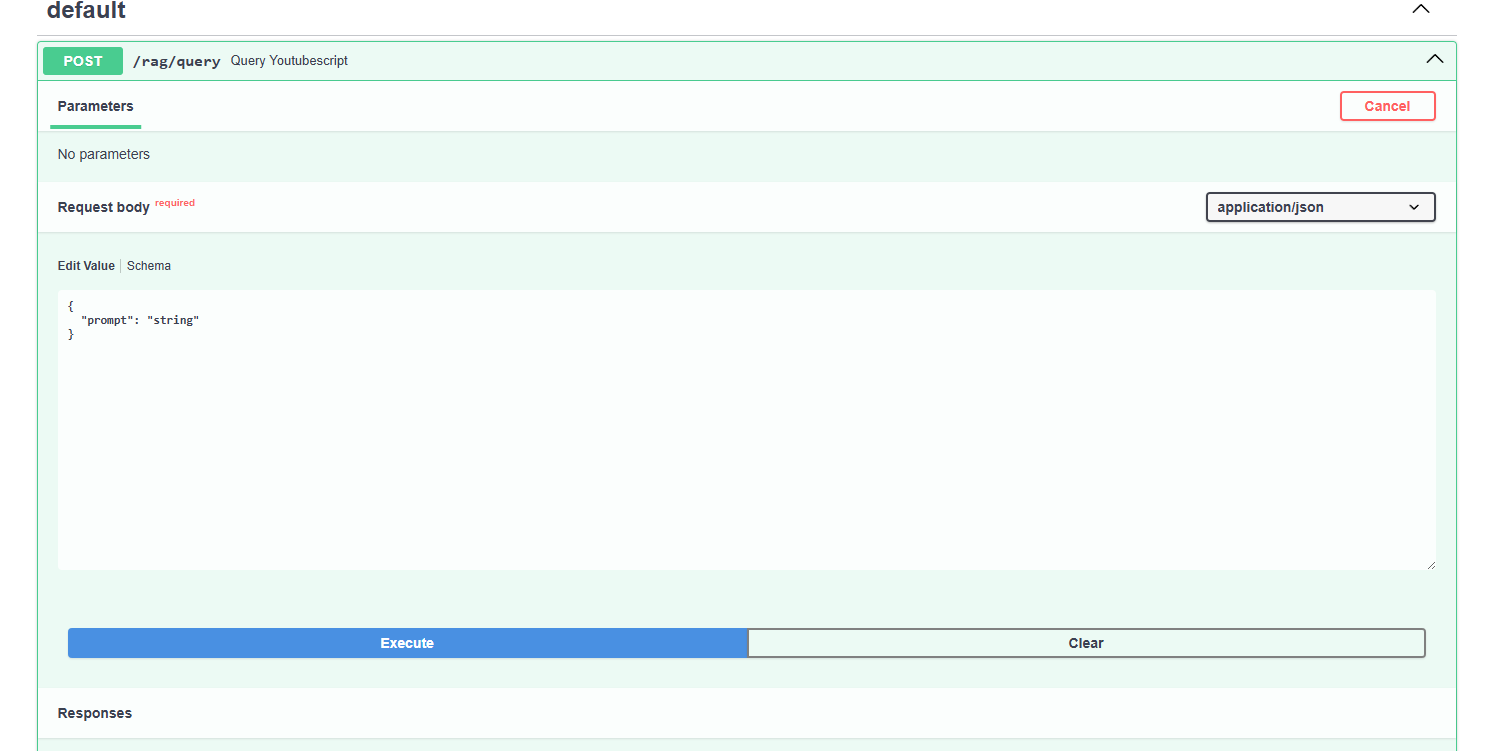
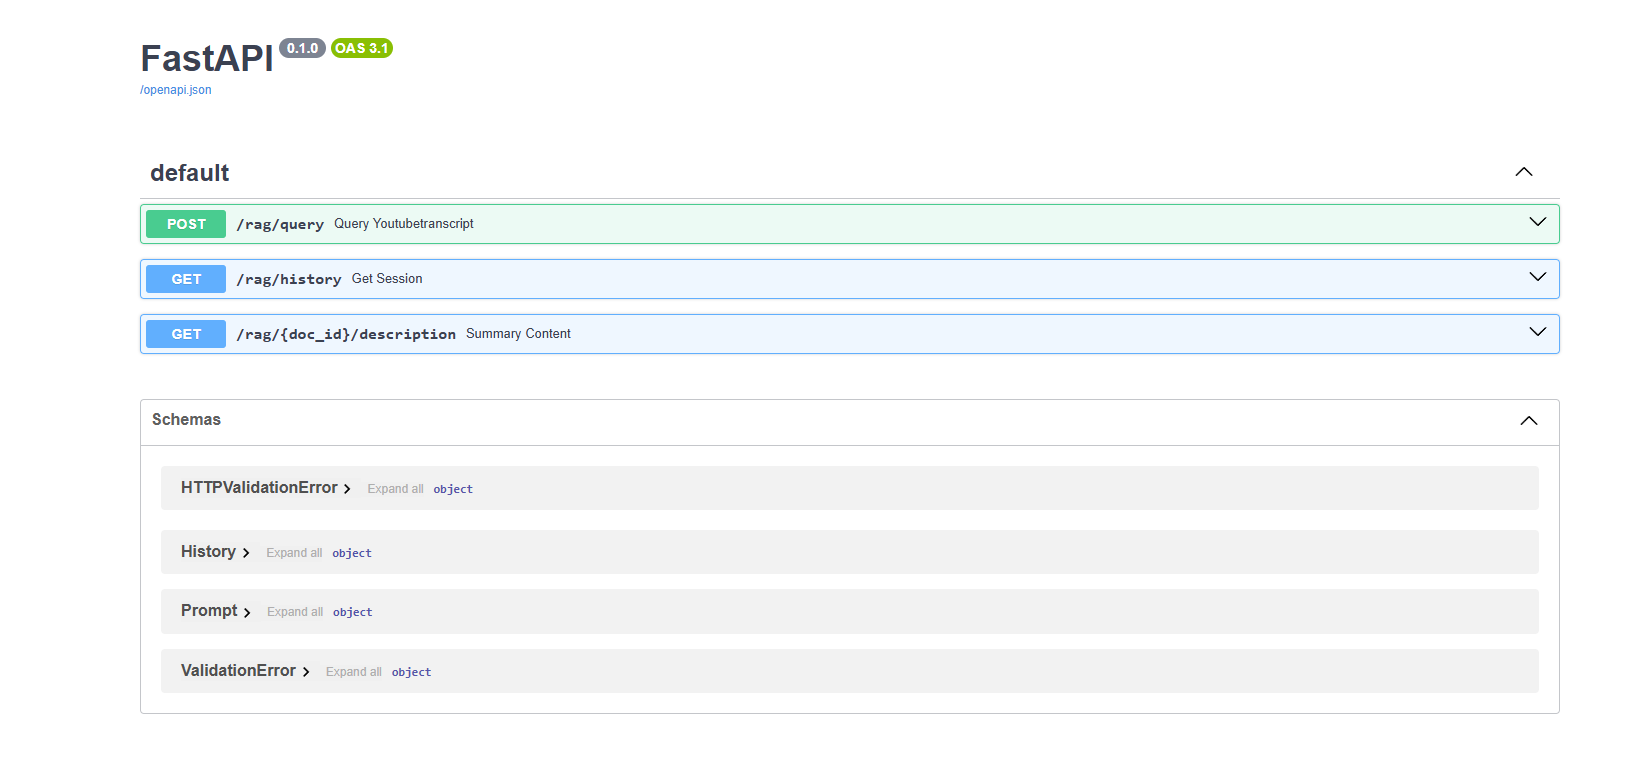
more endpoint and some changing in README

diff --git a/api.py b/api.py
@@ -1,39 +1,63 @@
-from fastapi import FastAPI
-from backend.data_models import Prompt
+from fastapi import FastAPI, HTTPException
+from backend.data_models import Prompt, YoutubeDescription
 from backend.rag import rag_agent
+from backend.ingestion import open_vector_database
+from typing import List
 
 app = FastAPI()
 
+def get_transcript_content(doc_id):
+    table = open_vector_database()
+    df = table.to_pandas()
+        
+    records: List[dict] = df.to_dict(orient= "records")
+
+    for r in records:
+        if r["doc_id"] == doc_id:
+            r.pop("embedding", None)
+            return r["content"]
+
+    raise HTTPException(status_code=404, detail= "Transcript do not exists")
+
 last_result = None
 
-session = []
+session: list[dict] = []
 
 @app.post("/rag/query")
-async def query_youtubescript(query:Prompt):
+async def query_youtubetranscript(query: Prompt):
     global last_result
-    
+
     messages_history = last_result.all_messages() if last_result else None
-    
-    result =await rag_agent.run(query.prompt, message_history= messages_history)
+
+    result = await rag_agent.run(query.prompt, message_history=messages_history)
 
     last_result = result
-    return {"answer": result.output.answer}
-    
 
-@app.post("/rag/history")
-async def create_history(query:Prompt):
-    
-    session.append(query.history)
-    
+    session.append({"role": "user", "content": query.prompt})
+    session.append({"role": "assistant", "content": result.output.answer})
+
+    return {"answer": result.output.answer}
+
+
+@app.get("/rag/history")
+async def get_session() -> list[dict]:
+
     return session
 
-# @app.get("rag/history/{id}")
-# async def get_session(session_id: int) -> Prompt:
-#     if session_id < len(session):
-#         return session[session_id]
-#     else:
-#         raise HTTPException(status_code= 404, detail= f"Item {session_id} not found")
-        
-    
-    
-    
+
+
+@app.get("/rag/{doc_id}/description")
+async def summary_content(doc_id: str):
+  transcript_text = get_transcript_content(doc_id)
+  
+  prompt = (f"Write a summary for the {transcript_text}.",
+            "Keep it short and interesting, 2-4 sentences.",
+            )
+  
+  result = await rag_agent.run(prompt)
+  
+  return YoutubeDescription(
+      doc_id= doc_id,
+      description= result.output.answer
+      )
+  

diff --git a/frontend/app.py b/frontend/app.py
@@ -5,12 +5,10 @@ from dotenv import load_dotenv
 
 load_dotenv()
 
-# url = "http://127.0.0.1:8000/rag/query"
+url = "http://127.0.0.1:8000/rag/query"
 
-# This use when frontend are deployed
-
-
-BACKEND_URL = os.getenv("BACKEND_URL")
+# This: use when frontend are deployed
+# BACKEND_URL = os.getenv("BACKEND_URL")
 
 def init_message_state():
     
@@ -31,7 +29,7 @@ def handle_user_messager():
             
         st.session_state.messages.append({"role": "user", "content": prompt})
         
-        response = requests.post(BACKEND_URL, json={"prompt": prompt,
+        response = requests.post(url, json={"prompt": prompt,
                                 "history": st.session_state.messages})
         
         data = response.json()
@@ -45,12 +43,13 @@ def handle_user_messager():
 
 
 def layout():
+    
     st.markdown("# Data Engineer chatbot")
     st.markdown("Ask your question.")
     
     display_chat_message()
     handle_user_messager()
-
+        
 if __name__=="__main__":
     
     init_message_state()

diff --git a/backend/data_models.py b/backend/data_models.py
@@ -1,11 +1,10 @@
 from pydantic import BaseModel, Field
+from typing import List, Optional
 from lancedb.embeddings import get_registry
 from lancedb.pydantic import LanceModel, Vector
 from dotenv import load_dotenv
 
 load_dotenv()
-
-
 
 embedding_model = get_registry().get("gemini-text").create(name= "gemini-embedding-001")
 
@@ -31,4 +30,11 @@ class History(BaseModel):
 
 class Prompt(BaseModel):
     prompt: str = Field(description="prompt from user")
+    history: Optional[List[History]]
     
+
+class YoutubeDescription(BaseModel):
+    doc_id: str = Field(description="Id for the video, is the same as filepath")
+    description: str = Field(description= "Short summaries for the video")
+    
+

diff --git a/backend/ingestion.py b/backend/ingestion.py
@@ -1,6 +1,6 @@
 import lancedb 
-from constants import DATA_PATH, VECTOR_DB_PATH
-from data_models import TranScript
+from .constants import DATA_PATH, VECTOR_DB_PATH
+from .data_models import TranScript
 from pathlib import Path
 import time 
 
@@ -37,6 +37,15 @@ def ingested_txt_to_vector_db(table_name):
         print(table_name.to_pandas()["filename"])
         time.sleep(20)
 
+    
+    
+def open_vector_database():
+    
+    vector_db = lancedb.connect(uri=VECTOR_DB_PATH)
+    
+    table = vector_db.open_table("transcript")
+    
+    return table
     
     
 if __name__=="__main__":

diff --git a/backend/rag.py b/backend/rag.py
@@ -7,7 +7,7 @@ from .constants import VECTOR_DB_PATH
 vector_db = lancedb.connect(uri=VECTOR_DB_PATH)
 
 rag_agent = Agent(
-    model="google-gla:gemini-2.5-flash",
+    model="google-gla:gemini-2.0-flash",
     retries=3,
     system_prompt=(
         "You are an expert Data Engineering.",

diff --git a/README.md b/README.md
@@ -1,26 +1,9 @@
 # Chatbot for Data Engineer
 > This project is a chatbot design to answer question based on transcript from teachers YOUTUBE lectures in Data Engineer education program.
 
-## Purpose of this project
-- Using Pydantic to understand data validation and parsing. 
-- Using FastAPI to build a web framework for creating API:s in Python.
-- Using PydanticAI to build LLM-powered interaction and gain a basic understanding of how they work.
-- Using Lancedb for creating vector database and learning about embeddings.
-- Azure function apps is the bridge between backend and frontend.
-- Terraform to create infrastructer code in Azure.
-- Using Docker to build container image and push them to Azure.
-- Using Azure to deploy and host the application.
-
-## Features 
-- Get answer on the content for Data Engineer education program.
-- Create a chat session with the bot
-- Retrieve chat history for a session
-
-
 ## Source
 The transcript for this YouTube lecture are stored in this repository under the data directory. 
 You can browse them here: https://github.com/MarcusArdenstedt/Chatbot_de24/tree/main/data 
-
 
 ## Installation
 
@@ -51,9 +34,10 @@ You can browse them here: https://github.com/MarcusArdenstedt/Chatbot_de24/tree/
    ```
 This will make it possible to build and distribute package in the project.
 
-# Step to execute the project
 
-## Create and ingest data to a vector database
+## How to use the code
+
+### Create and ingest data to a vector database
 
 - Create a constants file under backend. Here create path to data and knowledge_base: https://github.com/MarcusArdenstedt/Chatbot_de24/blob/main/backend/constants.py
   
@@ -61,14 +45,16 @@ This will make it possible to build and distribute package in the project.
   
 - Before ingest the text-file to knowledge_base you need to have embedding the text that ingest and defining table schema. An enbedding is a numeric vector tha capture the sematic meaning of the transcript and makes it possible for the agent to do vector search.
 
-<image src = "assets/embedding_defining.png">
+<image src = "assets/embedding_defining.png" width= 300>
+
 - Ingestion the text-file to a vector database. Here's exemple: https://github.com/MarcusArdenstedt/Chatbot_de24/blob/main/backend/ingestion.py 
 
-## Testing Fast API with Swagger UI
+### Testing Fast API with Swagger UI
 - Creating a RAG Agent with pydantic AI. Tool_plain decorator perform a vector search in lancedb for the user query and return top matching content to the agent.
 https://github.com/MarcusArdenstedt/Chatbot_de24/blob/main/backend/rag.py
   
-- In the api.py create a fast API endpoint to call to RAG-agent, code exemple: <image src = "assets/post_endpoint.png">
+- In the api.py create a fast API endpoint to call to RAG-agent, code exemple: <image src = "assets/post_endpoint.png" width=300>
+
 Initialize app with FastAPI(), then decorate it with GET-endpoint. async and await is just to make that computer dosen't need to wait for this function to be finish so the computer jumping back and forth until this is finish. Here you send in the prompt to RAG-agent and it will return the output. 
 
 - Testing in swagger
@@ -78,21 +64,21 @@ Initialize app with FastAPI(), then decorate it with GET-endpoint. async and awa
     uv run uvicorn api:app --reload
     ```
 
-http://127.0.0.1:8000/docs in browser url and this is what will:
-<image src = "assets/swagger_ui.png">
+http://127.0.0.1:8000/docs in browser url and this is what will show:
+<image src = "assets/swagger_ui.png" width=300>
 
 And string is the prompt.
 
-## Function apps
+### Function apps
 
 - Install [Azure Functions Core Tools](https://learn.microsoft.com/en-us/azure/azure-functions/functions-run-local?tabs=macos%2Cisolated-process%2Cnode-v4%2Cpython-v2%2Chttp-trigger%2Ccontainer-apps&pivots=programming-language-csharp) on your computer
 
 - In extension install Azure Functions
-  <image src = "assets/azure_function_extension.png">
+  <image src = "assets/azure_function_extension.png" width=300>
 
 - sign in with your azure subscription 
 - click on workspace and create a local project
-<image src = "assets/workspace.png">
+<image src = "assets/workspace.png" width=300>
 - Added this in your host.json
   ```
     "extensions": {
@@ -116,13 +102,16 @@ And string is the prompt.
 - change the url in frontend/app.py, so it linked to azuer function
 - Deploy it to azure function.
 
-## Create web app 
+### Create web app 
 - Create resources container-registry, web-app-plan and web-app-server in the same resource group as function apps.
 - create a image for frontend and push it to Azure container registry
 - In Azure web-app create a environment variable with the same name you will have in frontend os.getenv(same-name)
-<image src = "assets/url.png">
+
+<image src = "assets/url.png" width=300>
 
 
-<image src = "assets/request_post.png">
+<image src = "assets/request_post.png" width=300>
 
-- Now it linked to function apps.
+### End result
+
+
